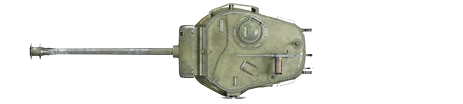
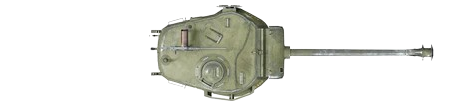
align tank body and turret

Changed region(s): [[0.0605, 0.0288, 0.9374, 0.9808]]

diff --git a/src/PoliceTank.cpp b/src/PoliceTank.cpp
@@ -8,38 +8,43 @@
 #include <iostream>
 
 PoliceTank::PoliceTank(GameManager& gameManager, const sf::Vector2f& startPosition)
-    : Vehicle(), // Call base Vehicle constructor
+    : Vehicle(),
     m_gameManager(gameManager),
     m_pathfinder(*gameManager.getPathfindingGrid()),
     m_currentPathIndex(0),
     m_repathTimer(0.f),
     m_targetPosition(startPosition) {
 
-    // Tank body sprite is assumed to be handled by Vehicle::sprite or Vehicle::setTexture
-    // Example: this->setTexture(ResourceManager::getInstance().getTexture("police_tank_body"));
-    // For now, we assume Vehicle's constructor or a derived method sets up the main sprite.
-    // If Vehicle class doesn't have a sprite, you'd initialize m_bodySprite here.
-    // We will use the Vehicle's sprite directly via getSprite() or by setting its texture.
-    // For simplicity, let's assume Vehicle has setTexture and setOrigin
-    Vehicle::setTexture(ResourceManager::getInstance().getTexture("policeTank")); // Placeholder
-    Vehicle::getSprite().setOrigin(Vehicle::getSprite().getTextureRect().width / 2.f, Vehicle::getSprite().getTextureRect().height / 2.f); // Example
+    std::cout << "tank has spawned";
+
+    // --- Body ---
+    Vehicle::setTexture(ResourceManager::getInstance().getTexture("policeTank"));
+    Vehicle::getSprite().setOrigin(
+        Vehicle::getSprite().getTextureRect().width / 2.f,
+        Vehicle::getSprite().getTextureRect().height / 2.f
+    );
+    Vehicle::getSprite().setScale(0.2f, 0.2f);
     Vehicle::setPosition(startPosition);
 
-    m_turretSprite.setTexture(ResourceManager::getInstance().getTexture("tankBody")); // Placeholder
+    // --- Turret ---
+    m_turretSprite.setTexture(ResourceManager::getInstance().getTexture("tankBody"));
     if (m_turretSprite.getTexture()) {
-        m_turretSprite.setOrigin(m_turretSprite.getTexture()->getSize().x / 4.f, m_turretSprite.getTexture()->getSize().y / 2.f); // Turret origin might be different
+        m_turretSprite.setOrigin(
+            m_turretSprite.getTexture()->getSize().x / 2.f,
+            m_turretSprite.getTexture()->getSize().y / 2.f
+        );
     }
     else {
         std::cerr << "PoliceTank turret texture not loaded!" << std::endl;
     }
-    m_turretSprite.setScale(Vehicle::getSprite().getScale()); // Match body scale initially
+
+    m_turretSprite.setScale(Vehicle::getSprite().getScale());
     m_turretSprite.setPosition(startPosition);
 
     m_health = 500;
     m_speed = 30.f;
-    // Vehicle::speed = m_speed; // If vehicle has a public speed member to override
-    // std::cout << "PoliceTank spawned at: " << startPosition.x << ", " << startPosition.y << std::endl;
 }
+
 
 void PoliceTank::update(float dt, Player& player, const std::vector<std::vector<sf::Vector2f>>& blockedPolygons) {
     Vehicle::update(dt, blockedPolygons); // Base vehicle update (if any)
@@ -50,7 +55,16 @@ void PoliceTank::update(float dt, Player& player, const std::vector<std::vector<
     if (m_cannonCooldownTimer > 0.f) {
         m_cannonCooldownTimer -= dt;
     }
-    m_turretSprite.setPosition(getPosition()); // Keep turret on top of tank body
+
+    const sf::Vector2f turretOffset(34.f, -23.f); // ????? ?? ??????? ??? ?????
+    m_turretSprite.setPosition(getPosition() + turretOffset);
+
+    // ???? ?? ????? ???? ?????
+    sf::Vector2f direction = player.getPosition() - m_turretSprite.getPosition();
+    float angleRadians = std::atan2(direction.y, direction.x);
+    float angleDegrees = angleRadians * 180.f / 3.14159f;
+    m_turretSprite.setRotation(angleDegrees);
+
 }
 
 void PoliceTank::updateAIBehavior(float dt, Player& player, const std::vector<std::vector<sf::Vector2f>>& blockedPolygons) {
@@ -169,7 +183,7 @@ void PoliceTank::aimAndFire(Player& player, float dt) {
         // TODO: GameManager needs a method like addTankShell(position, direction)
         // m_gameManager.addTankShell(projectileSpawnPos, fireDirection); 
         // For now, let's use addBullet as a placeholder, assuming it can take a 'powerful' flag
-        m_gameManager.addBullet(projectileSpawnPos, fireDirection, BulletType::TankShell); // ????
+        m_gameManager.addBullet(projectileSpawnPos, fireDirection, BulletType::Bazooka); // ????
         m_cannonCooldownTimer = CANNON_FIRE_RATE;
     }
 }
@@ -185,7 +199,6 @@ sf::Vector2f PoliceTank::getPosition() const {
 
 void PoliceTank::setPosition(const sf::Vector2f& pos) {
     Vehicle::setPosition(pos);    // Delegate to base class
-    m_turretSprite.setPosition(pos); // Keep turret synced
 }
 
 bool PoliceTank::isDestroyed() const {

diff --git a/src/PoliceManager.cpp b/src/PoliceManager.cpp
@@ -404,15 +404,15 @@ void PoliceManager::managePolicePopulation(int wantedLevel, const sf::Vector2f& 
         break;
     case 4:
         m_desiredPistolOfficers = 4; // More pistol officers
-        m_desiredPoliceCars = 0;//change to 3
+        m_desiredPoliceCars = 3;
         m_desiredPoliceHelicopters = 1;
         m_desiredBatonOfficers = 1; // Fewer baton officers at higher levels
         break;
     case 5:
-        m_desiredPistolOfficers = 5;
-        m_desiredPoliceCars = 3;
-        m_desiredPoliceHelicopters = 2;
-        m_desiredPoliceTanks = 1;
+        m_desiredPistolOfficers = 0;//5
+        m_desiredPoliceCars = 0;//3
+        m_desiredPoliceHelicopters = 0;//2
+        m_desiredPoliceTanks = 3;//change to 1...
         m_desiredBatonOfficers = 0;
         break;
     default: // For wanted levels > 5

diff --git a/src/Player.cpp b/src/Player.cpp
@@ -15,7 +15,7 @@ Player::Player(GameManager& gameManager) // Modified constructor
     sheetCols(12), sheetRows(12), animTimer(0.f), animDelay(0.1f),
     m_money(PlayerMoney), m_health(MaxHealth), m_armor(MaxArmor),
     m_currentWeaponName("Fists"), m_maxWeaponAmmo(0),
-    m_wantedLevel(4)
+    m_wantedLevel(5)
 {
     sf::Texture& texture = ResourceManager::getInstance().getTexture("player");
     sprite.setTexture(texture);
